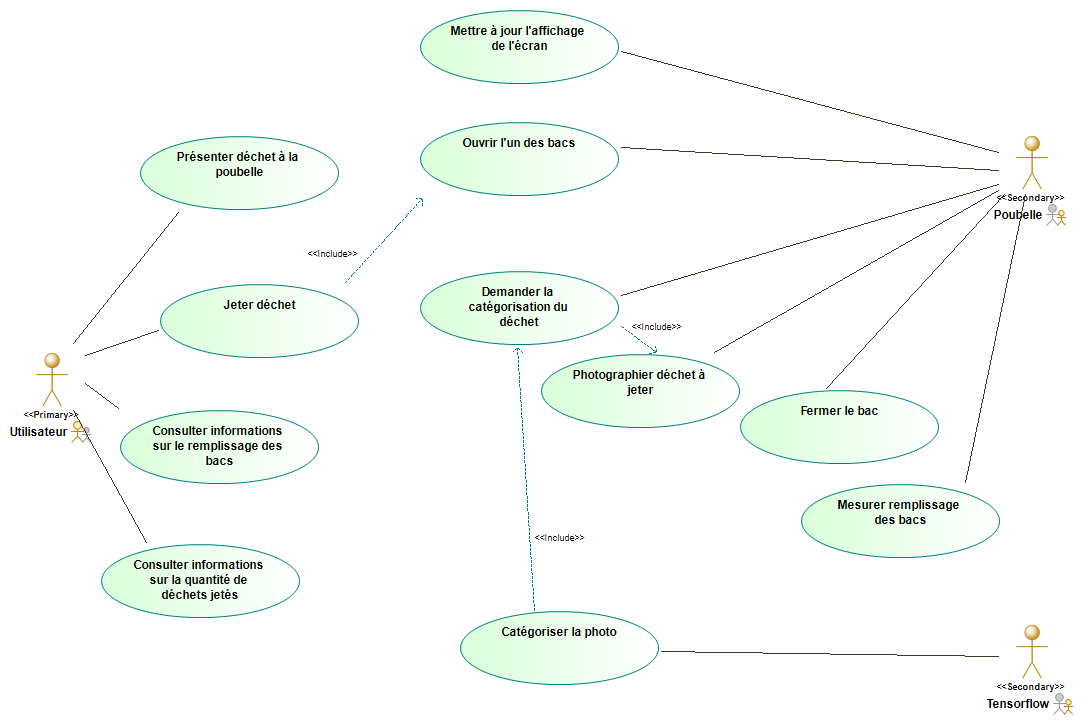
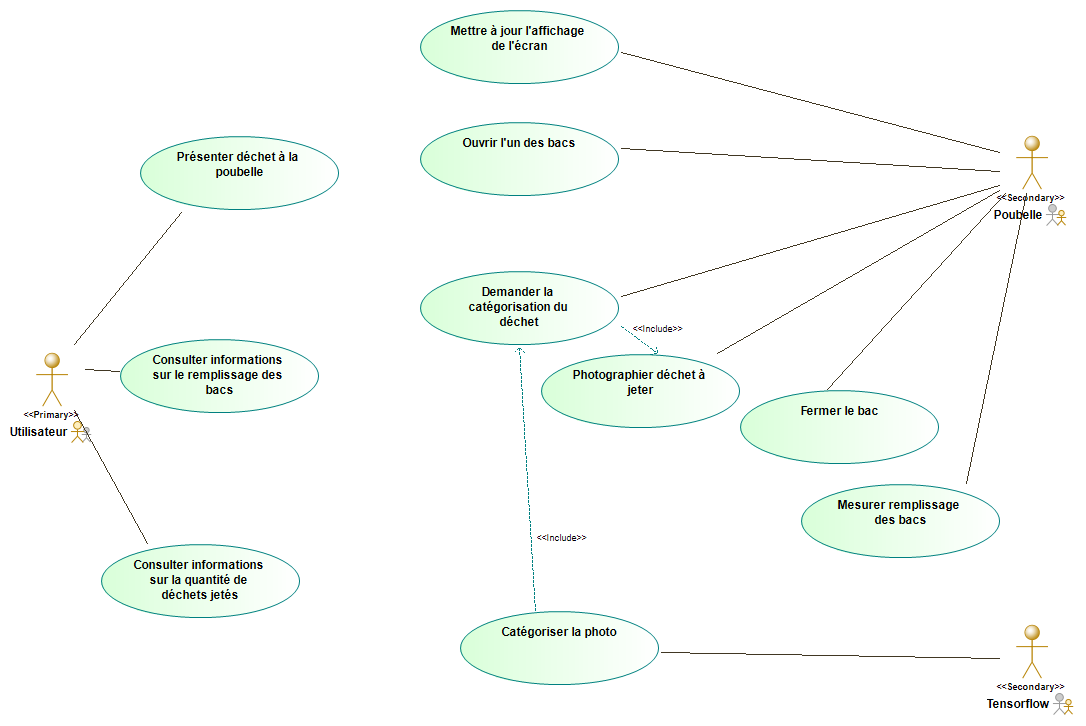
Updated readme + diagrams + fritzing
Use case diagram corrected, activity diagram updated, fritzing of our project (in theory, not everything has been tested yet)
Also updated README.md

diff --git a/README.md b/README.md
@@ -55,13 +55,13 @@ En raison de ses dimensions et de son poids important (environ 60 kilos), ainsi 
 
 
 ## Composants nécessaires
-- Une poubelle à 3 bacs
+- Une poubelle à 3 bacs - *[Cdiscount.com](https://www.cdiscount.com/bricolage/sanitaire-salle-de-bain/poubelle-de-salle-de-bains-inox-3-litres-a-pedale/f-1661007-gen8714331009855.html)*
 - Raspberry Pi 3 Modèle B+ 1 GB (avec alimentation, ventilateur, et carte microSD)
-- 1x module caméra 5 MP
-- 1x écran
-- 3x servomoteurs
-- 3x télémètres à ultrasons (SONAR)
-- 3x capteurs de poids ? 
+- 1x module caméra 5 MP - *[Amazon.fr](https://www.amazon.fr/gp/product/B07PVF353B/ref=ppx_yo_dt_b_asin_title_o01_s00?ie=UTF8&psc=1)*
+- 1x écran - *[Amazon.fr](https://www.amazon.fr/gp/product/B0798N2HHW/ref=ppx_yo_dt_b_asin_title_o01_s01?ie=UTF8&psc=1)*
+- 3x servomoteurs - *[Amazon.fr](https://www.amazon.fr/gp/product/B07CYZSVKW/ref=ppx_yo_dt_b_asin_title_o00_s00?ie=UTF8&psc=1)*
+- 3x télémètres à ultrasons (SONAR) - *[Amazon.fr](https://www.amazon.fr/gp/product/B01C6O9AH6/ref=ppx_yo_dt_b_asin_title_o00_s00?ie=UTF8&psc=1)*
+- ~~3x capteurs de poids ?~~ *(pour des raisons de budget, nous n'en utilisons pas dans notre projet)*
 - Des résistances et des câbles
 
 ## Étude fonctionnelle
@@ -78,14 +78,10 @@ Diagramme de cas d'utilisation :
 ![Diagramme de cas d'utilisation](lab/Project/use-case-diagram.png)
 
 
-### Exemples de branchements sur Fritzing
-Ce premier schéma montre comment on devrait procéder pour brancher les servomoteurs, la caméra et l'écran au Raspberry Pi.
+### Branchements sur Fritzing
+Ce schéma montre à quoi devrait ressembler notre système une fois tous les composants branchés au Raspberry Pi. Pour le moment, c'est purement théorique et il sera peut-être sujet à des modifications.
 
-![Branchements moteur Fritzing](lab/Project/fritzing-1.png)
-
-Ce second schéma montre comment on devrait procéder pour brancher l'un des télémètres à ultrasons au Raspberry Pi. Comme dans l'exemple précédent, on pourrait aussi utiliser une alimentation externe.
-
-![Branchements SONAR Fritzing](lab/Project/fritzing-2-sonar.png)
+![Branchements Fritzing](lab/Project/eco3-theoretical-sketch.png)
 
 ## Membres de l'équipe participant au projet
  - Nady SADDIK
